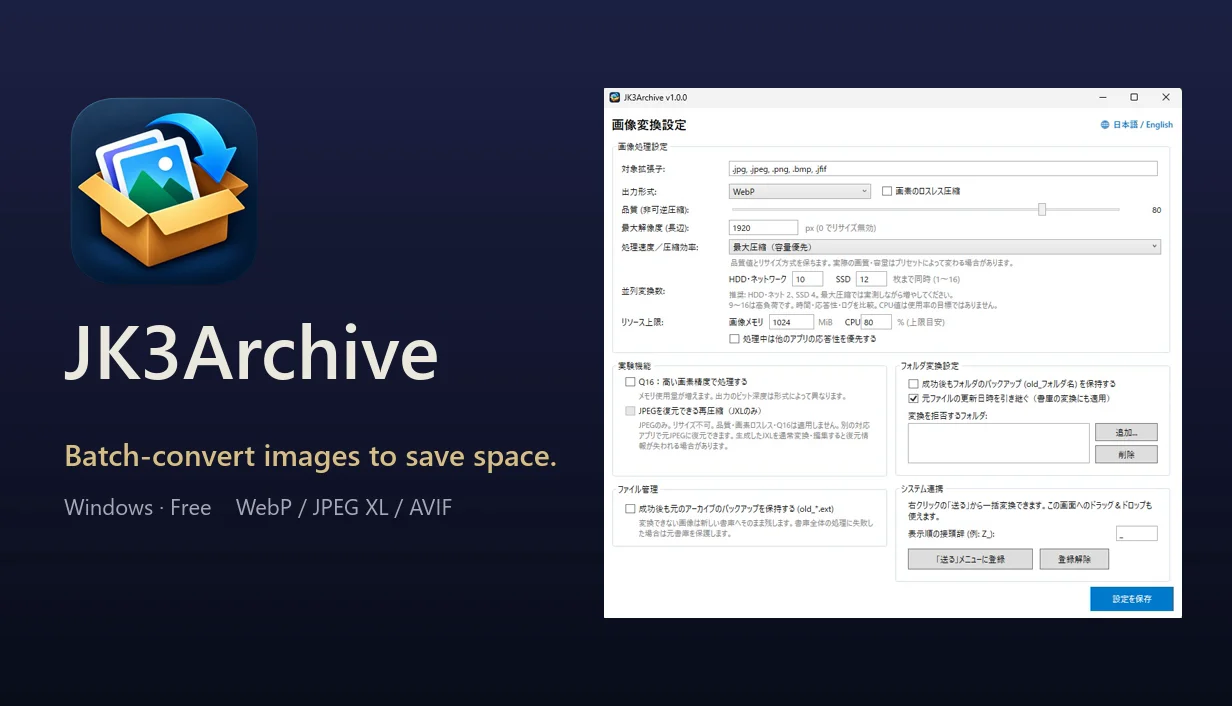
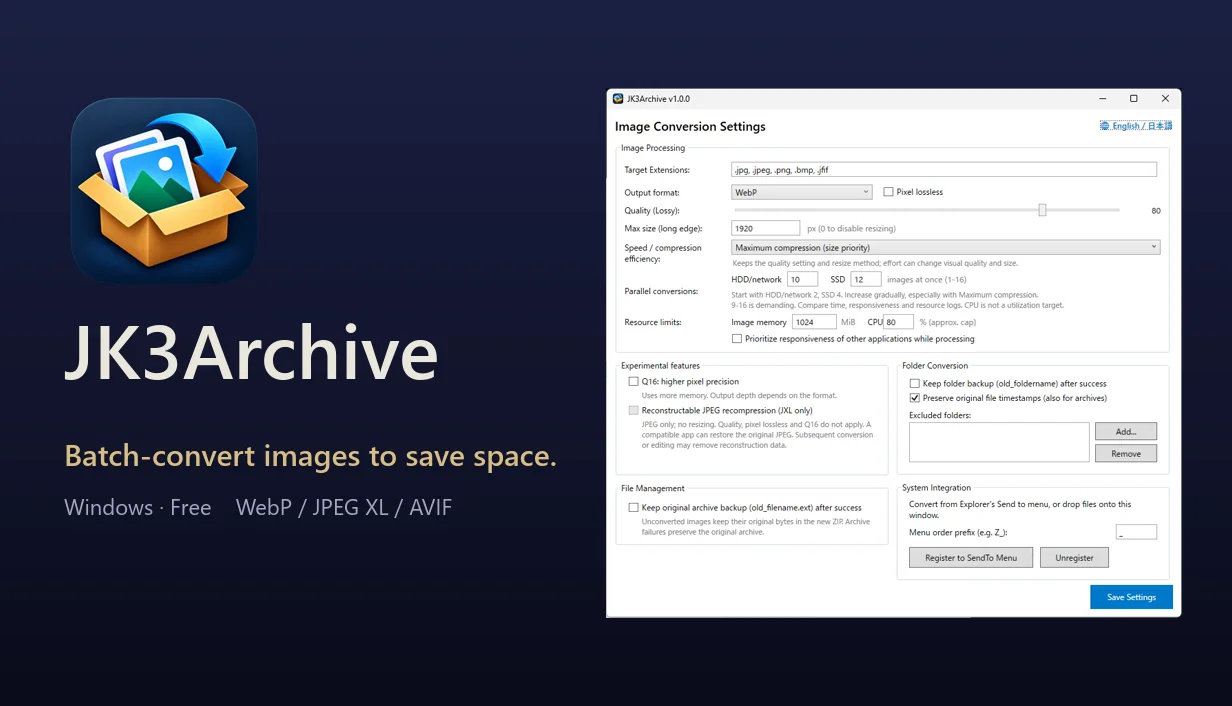
Show the English settings screenshot on the JK3Archive page
- English page shows the English UI screenshot; the English top-page card
  uses it too

diff --git a/tools/jk3archive/index.html b/tools/jk3archive/index.html
@@ -149,7 +149,8 @@ window.SITE = {
         </p>
       </div>
       <div class="tool-shot shots">
-        <a href="img/settings-ja.webp" target="_blank"><img src="img/settings-ja.webp" width="833" height="764" alt="JK3Archive の設定画面" fetchpriority="high"></a>
+        <a lang="ja" href="img/settings-ja.webp" target="_blank"><img src="img/settings-ja.webp" width="833" height="764" alt="JK3Archive の設定画面" fetchpriority="high"></a>
+        <a lang="en" href="img/settings-en.webp" target="_blank"><img src="img/settings-en.webp" width="836" height="769" alt="JK3Archive settings window"></a>
       </div>
     </div>
   </section>
